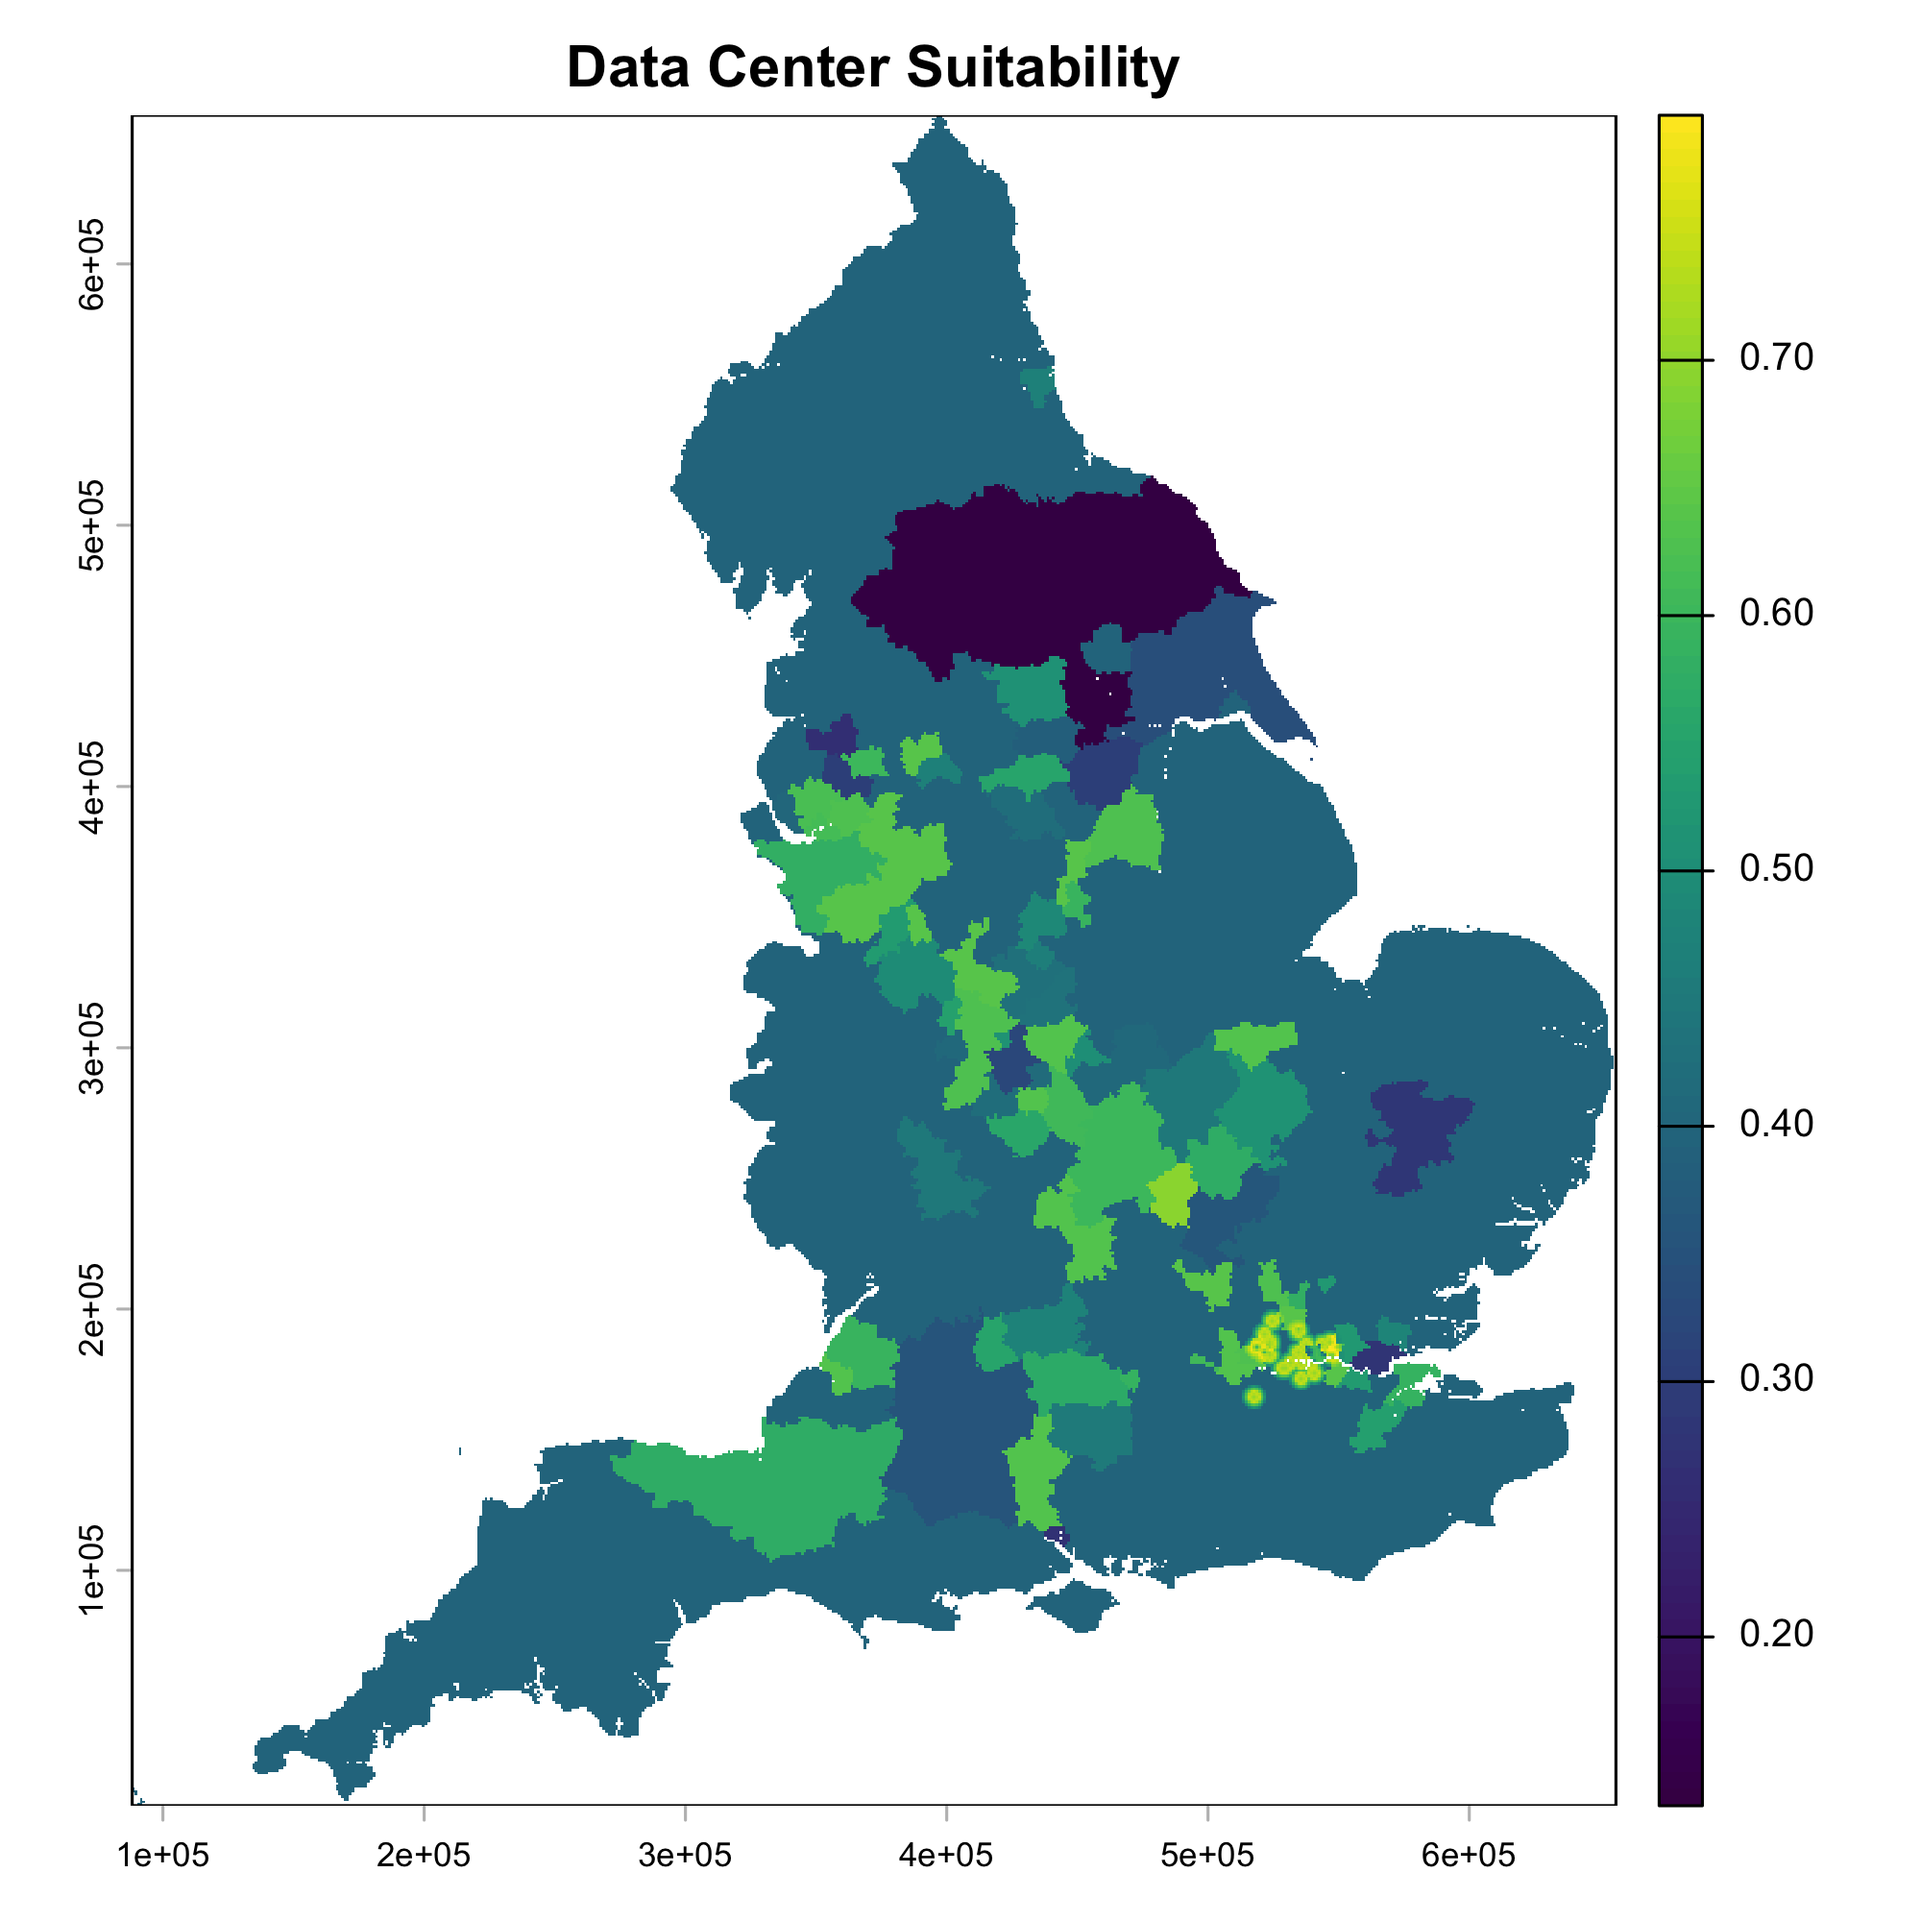
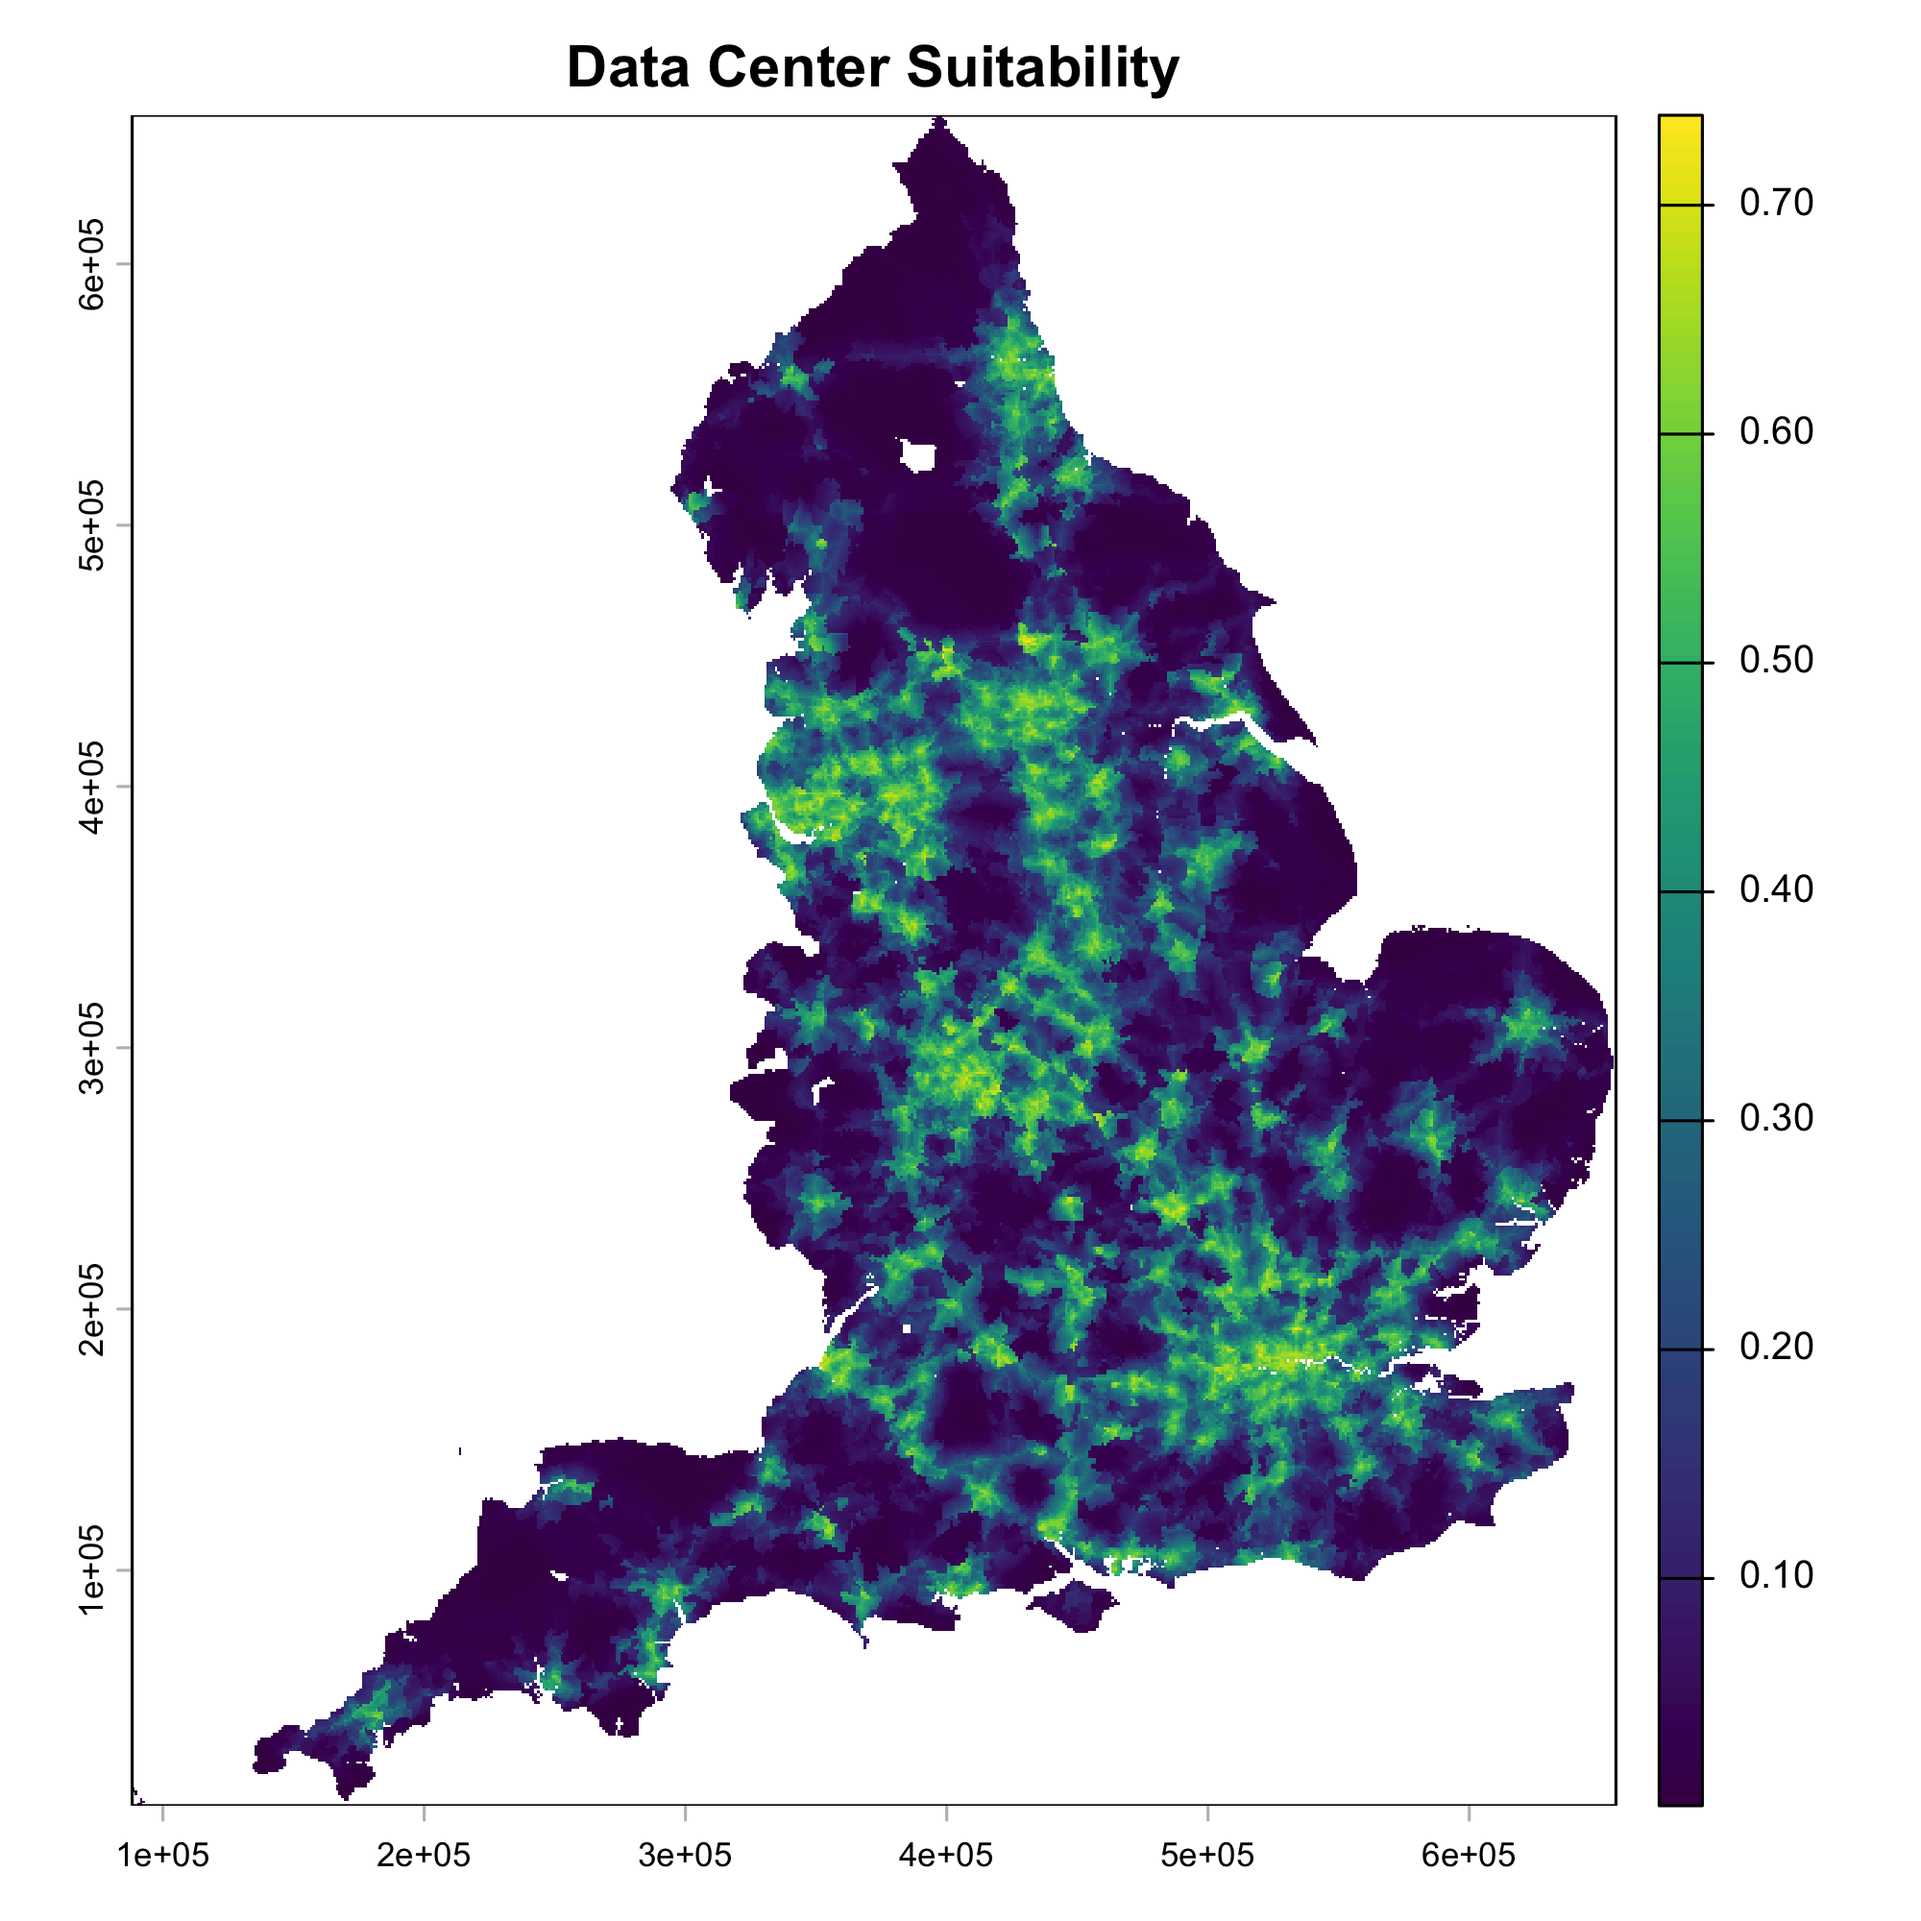
utils update, AUC added, code optimization

diff --git a/README.md b/README.md
@@ -4,3 +4,7 @@
 `RasterPreprocessNetwork`: Process suitibility raster from network data for MaxEnt model input <br/> 
 `RasterPreprocessPoint`: Process suitibility raster from point data for MaxEnt model input <br/> 
 `MaxEnt`: Run MaxEnt model for suitibility map, need prepared raster data and data centres
+
+## Datasource
+1. Large Distribution Warehouses: [Local Authority Districts (2023)](https://www.data.gov.uk/dataset/31c78354-168f-4457-b8f3-80e86adcd0f4/local-authority-districts-december-2023-boundaries-uk-bgc)
+2. Brownfield Site: [Brownfield site](https://www.planning.data.gov.uk/dataset/brownfield-site)
